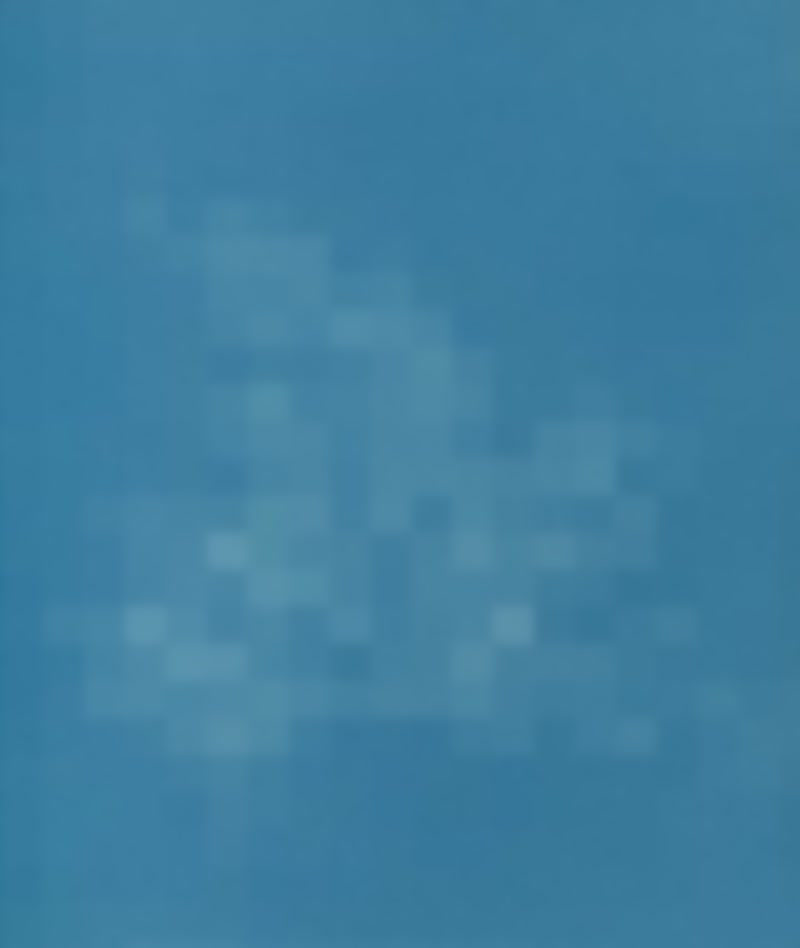
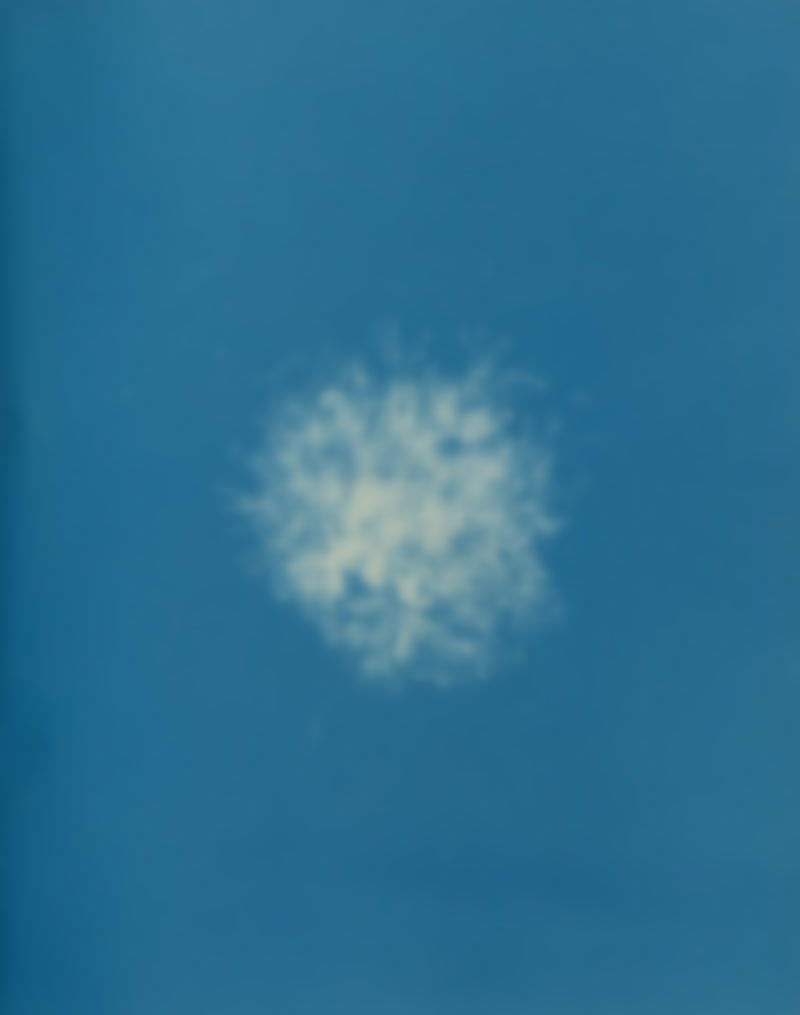
App launch: the cyanotype picture (Callithamnion roseum, cropped to the page) in blocks of 3, 6, 12 then 24 across, starting from plain blue

diff --git a/src/lib/launch-reveal.ts b/src/lib/launch-reveal.ts
@@ -1,7 +1,7 @@
 /**
  * The phyto app's launch animation (components/LaunchReveal.tsx), his spec
- * Nov 18: the blurred blue sign-in picture as large blocks that halve in size
- * in steps (6, 12, 24, 48 across) while still grain rises from none to
+ * Nov 18: the blurred cyanotype (Callithamnion roseum) as large blocks that
+ * halve in size in steps (3, 6, 12, 24 across) while still grain rises from none to
  * strong, then the white wordmark bursts in at the centre and holds for
  * about a second, then everything fades out to reveal the app. Times are milliseconds from the first frame.
  */
@@ -9,10 +9,10 @@
 /** Blocks across the screen, and when each size starts. The steps lengthen
  *  so the change slows down towards the end. */
 export const BLOCK_STEPS: readonly { at: number; across: number }[] = [
-  { at: 0, across: 6 },
-  { at: 200, across: 12 },
-  { at: 500, across: 24 },
-  { at: 900, across: 48 },
+  { at: 0, across: 3 },
+  { at: 200, across: 6 },
+  { at: 500, across: 12 },
+  { at: 900, across: 24 },
 ];
 
 /** Grain rises over the block steps, then holds. */

diff --git a/src/lib/__tests__/launch-reveal.test.ts b/src/lib/__tests__/launch-reveal.test.ts
@@ -9,9 +9,9 @@ import {
 } from "../launch-reveal";
 
 describe("launch reveal timeline", () => {
-  it("halves the blocks in steps and holds at 48 across", () => {
+  it("halves the blocks in steps and holds at 24 across", () => {
     expect([0, 199, 200, 499, 500, 899, 900, 1400, 2200].map(blocksAcross)).toEqual([
-      6, 6, 12, 12, 24, 24, 48, 48, 48,
+      3, 3, 6, 6, 12, 12, 24, 24, 24,
     ]);
   });
 
@@ -24,8 +24,8 @@ describe("launch reveal timeline", () => {
   });
 
   it("keeps blocks square on a portrait phone", () => {
-    expect(blocksDown(6, 390, 844)).toBe(13);
-    expect(blocksDown(48, 390, 844)).toBe(104);
+    expect(blocksDown(3, 390, 844)).toBe(6);
+    expect(blocksDown(24, 390, 844)).toBe(52);
   });
 });
 

diff --git a/src/components/LaunchReveal.tsx b/src/components/LaunchReveal.tsx
@@ -23,12 +23,12 @@ const GRAIN_MAX = 0.3;
 /** Give up waiting for the picture after this long. */
 const LOAD_TIMEOUT = 3000;
 /** The picture's average colour, shown until the first frame draws. */
-const FILL = "#3f7ea0";
+const FILL = "#2e7092";
 
 /**
  * The phyto app's launch animation, played once per launch over the first
  * screen (lib/launch-reveal.ts holds the timeline). It takes over from the
- * native launch screen (the same blurred picture), so `onFirstFrame` hides
+ * native launch screen (plain blue, the picture's average colour), so `onFirstFrame` hides
  * that only once the first frame has drawn. Taps don't skip it.
  */
 export function LaunchReveal({
